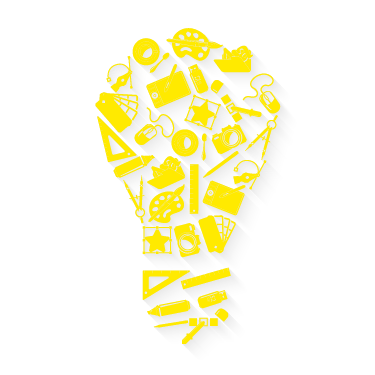
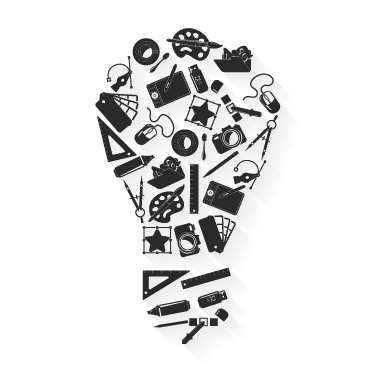
atualização de projeto

Changed region(s): [[0.2347, 0.0587, 0.7627, 0.9387]]

diff --git a/projeto-think-design/styles.css b/projeto-think-design/styles.css
@@ -19,7 +19,7 @@ a {
 
 body {
     font-family: 'Poppins', sans-serif;
-    background-image: linear-gradient(black, rgb(70, 70, 70));
+    background-image: linear-gradient(rgb(255, 255, 255), rgb(100, 100, 100));
 }
 
 nav {
@@ -46,7 +46,7 @@ nav {
 .link a{
     position: relative;
     padding-bottom: 0.75rem;
-    color: rgb(255, 255, 255);
+    color: rgb(0, 0, 0);
 }
 
 .link a::after {
@@ -56,7 +56,7 @@ nav {
     width: 0;
     bottom: 0;
     left: 0;
-    background-color: rgb(255, 255, 255);
+    background-color: rgb(43, 43, 43);
     transition: all 0.3s ease;
 }
 
@@ -67,15 +67,15 @@ nav {
 .btn {
     padding: 1rem 2rem;
     font-size: 1.1rem;
-    color: rgb(0, 0, 0);
-    background-color: yellow;
+    color: rgb(255, 255, 255);
+    background-color: rgb(0, 0, 0);
     border-radius: 10px;
     cursor: pointer;
     transition: all 0.3s ease;
 }
 
 .btn:hover {
-    background-color: rgba(246, 250, 0, 0.815) ;
+    background-color: rgb(255, 255, 255) ;
 }
 
 .container {
@@ -86,7 +86,7 @@ nav {
 
 .blur {
     position: absolute;
-    box-shadow: 0 0 1000px 50px rgb(255, 255, 255);
+    box-shadow: 0 0 1000px 50px rgb(0, 0, 0);
     z-index: -100;
 }
 
@@ -101,13 +101,13 @@ header {
 
 header .content h4 {
     margin-bottom: 1rem;
-    color: white;
+    color: rgb(43, 43, 43);
     font-size: 1rem;
     font-weight: 600;
 }
 
 header .content h1 {
-    color: white;
+    color: rgb(43, 43, 43);
     margin-bottom: 1rem;
     font-size: 3rem;
     font-weight: 700;
@@ -116,12 +116,12 @@ header .content h1 {
 
 header .content h1 span {
     -webkit-text-fill-color: transparent;
-    -webkit-text-stroke: 2px white;
+    -webkit-text-stroke: 2px rgb(43, 43, 43);
 }
 
 header .content p {
     margin-bottom: 2rem;
-    color: white;
+    color: rgb(43, 43, 43);
 }
 
 header .image{
@@ -137,7 +137,7 @@ header .image::before {
     font-size: 12rem;
     font-weight: 200;
     line-height: 20rem;
-    color: rgb(251, 255, 0);
+    color: rgb(43, 43, 43);
     opacity: 0.1;
     z-index: -100;
 }
@@ -149,7 +149,7 @@ header .image img {
 
 section .header {
     margin-bottom: 1rem;
-    color: white;
+    color: rgb(43, 43, 43);
     text-align: center;
     font-size: 2.25rem;
     font-weight: 600;
@@ -177,11 +177,11 @@ section .header {
 
 .features .card span {
     display: inline-block;
-    background-color: yellow;
+    background-color: rgb(41, 41, 41);
     padding: 2px 9px;
     margin-bottom: 1rem;
     font-size: 1.75rem;
-    color: rgb(0, 0, 0);
+    color: rgb(230, 230, 230);
     border-radius: 10px;
 }
 
@@ -203,14 +203,14 @@ section .header {
 }
 
 .features .card a:hover {
-    color: yellow ;
+    color: rgb(133, 133, 133) ;
 }
 
 .sub-header {
     max-width: 600;
     margin: auto;
     text-align: center;
-    color: white;
+    color: rgb(43, 43, 43);
 }
 
 .pricing {
@@ -275,8 +275,8 @@ section .header {
 }
 
 .pricing .card button:hover {
-    background-color: yellow;
-    border-color: yellow;
+    background-color: rgb(255, 255, 255);
+    border-color: rgb(255, 255, 255);
     color: black;
 }
 
@@ -314,8 +314,8 @@ footer .column .socials a {
 
 footer .column .socials a:hover {
     color: #000000;
-    background-color: yellow;
-    border-color: yellow;
+    background-color: rgb(255, 255, 255);
+    border-color: rgb(255, 255, 255);
 }
 
 footer .column h4 {
@@ -420,7 +420,7 @@ footer .column > a:hover {
 }
 
 .fale-conosco h2 {
-    color: yellow;
+    color: rgb(255, 255, 255);
     font-size: 2rem;
     font-weight: 600;
     margin-bottom: 10px;
@@ -471,17 +471,8 @@ footer .column > a:hover {
     height: 120px;
 }
 
-.btn {
-    background: yellow;
-    color: black;
-    border: none;
-    padding: 12px;
-    font-size: 18px;
-    cursor: pointer;
-    border-radius: 5px;
-    transition: all 0.3s ease;
-}
 
 .btn:hover {
-    background: rgba(246, 250, 0, 0.8);
+    background: rgba(43, 43, 43, 0.8);
+    color: white;
 }

diff --git a/projeto-think-design/index.html b/projeto-think-design/index.html
@@ -14,7 +14,7 @@
     <nav>
       <div class="nav-logo">
           <a href="#"></a>
-            <img src="images/thinkdesignbranco.png">
+            <img src="images/thinkdesignpreto.png">
       </div>
       
       <ul class="nav-links">
@@ -236,12 +236,6 @@
           <a href="https://www.instagram.com/thinkdesigndigital" target="_blank"><i class="ri-instagram-line"></i></a>
           <a href="https://www.behance.net/luizcarlosvazo" target="_blank"><i class="ri-behance-fill"></i></a>
         </div>
-      </div>
-      <div class="column">
-        <h4>Company</h4>
-        <a href="#">Business</a>
-        <a href="#">Parceiros</a>
-        <a href="#">Network</a>
       </div>
       <div class="column">
         <h4>Sobre nós</h4>
